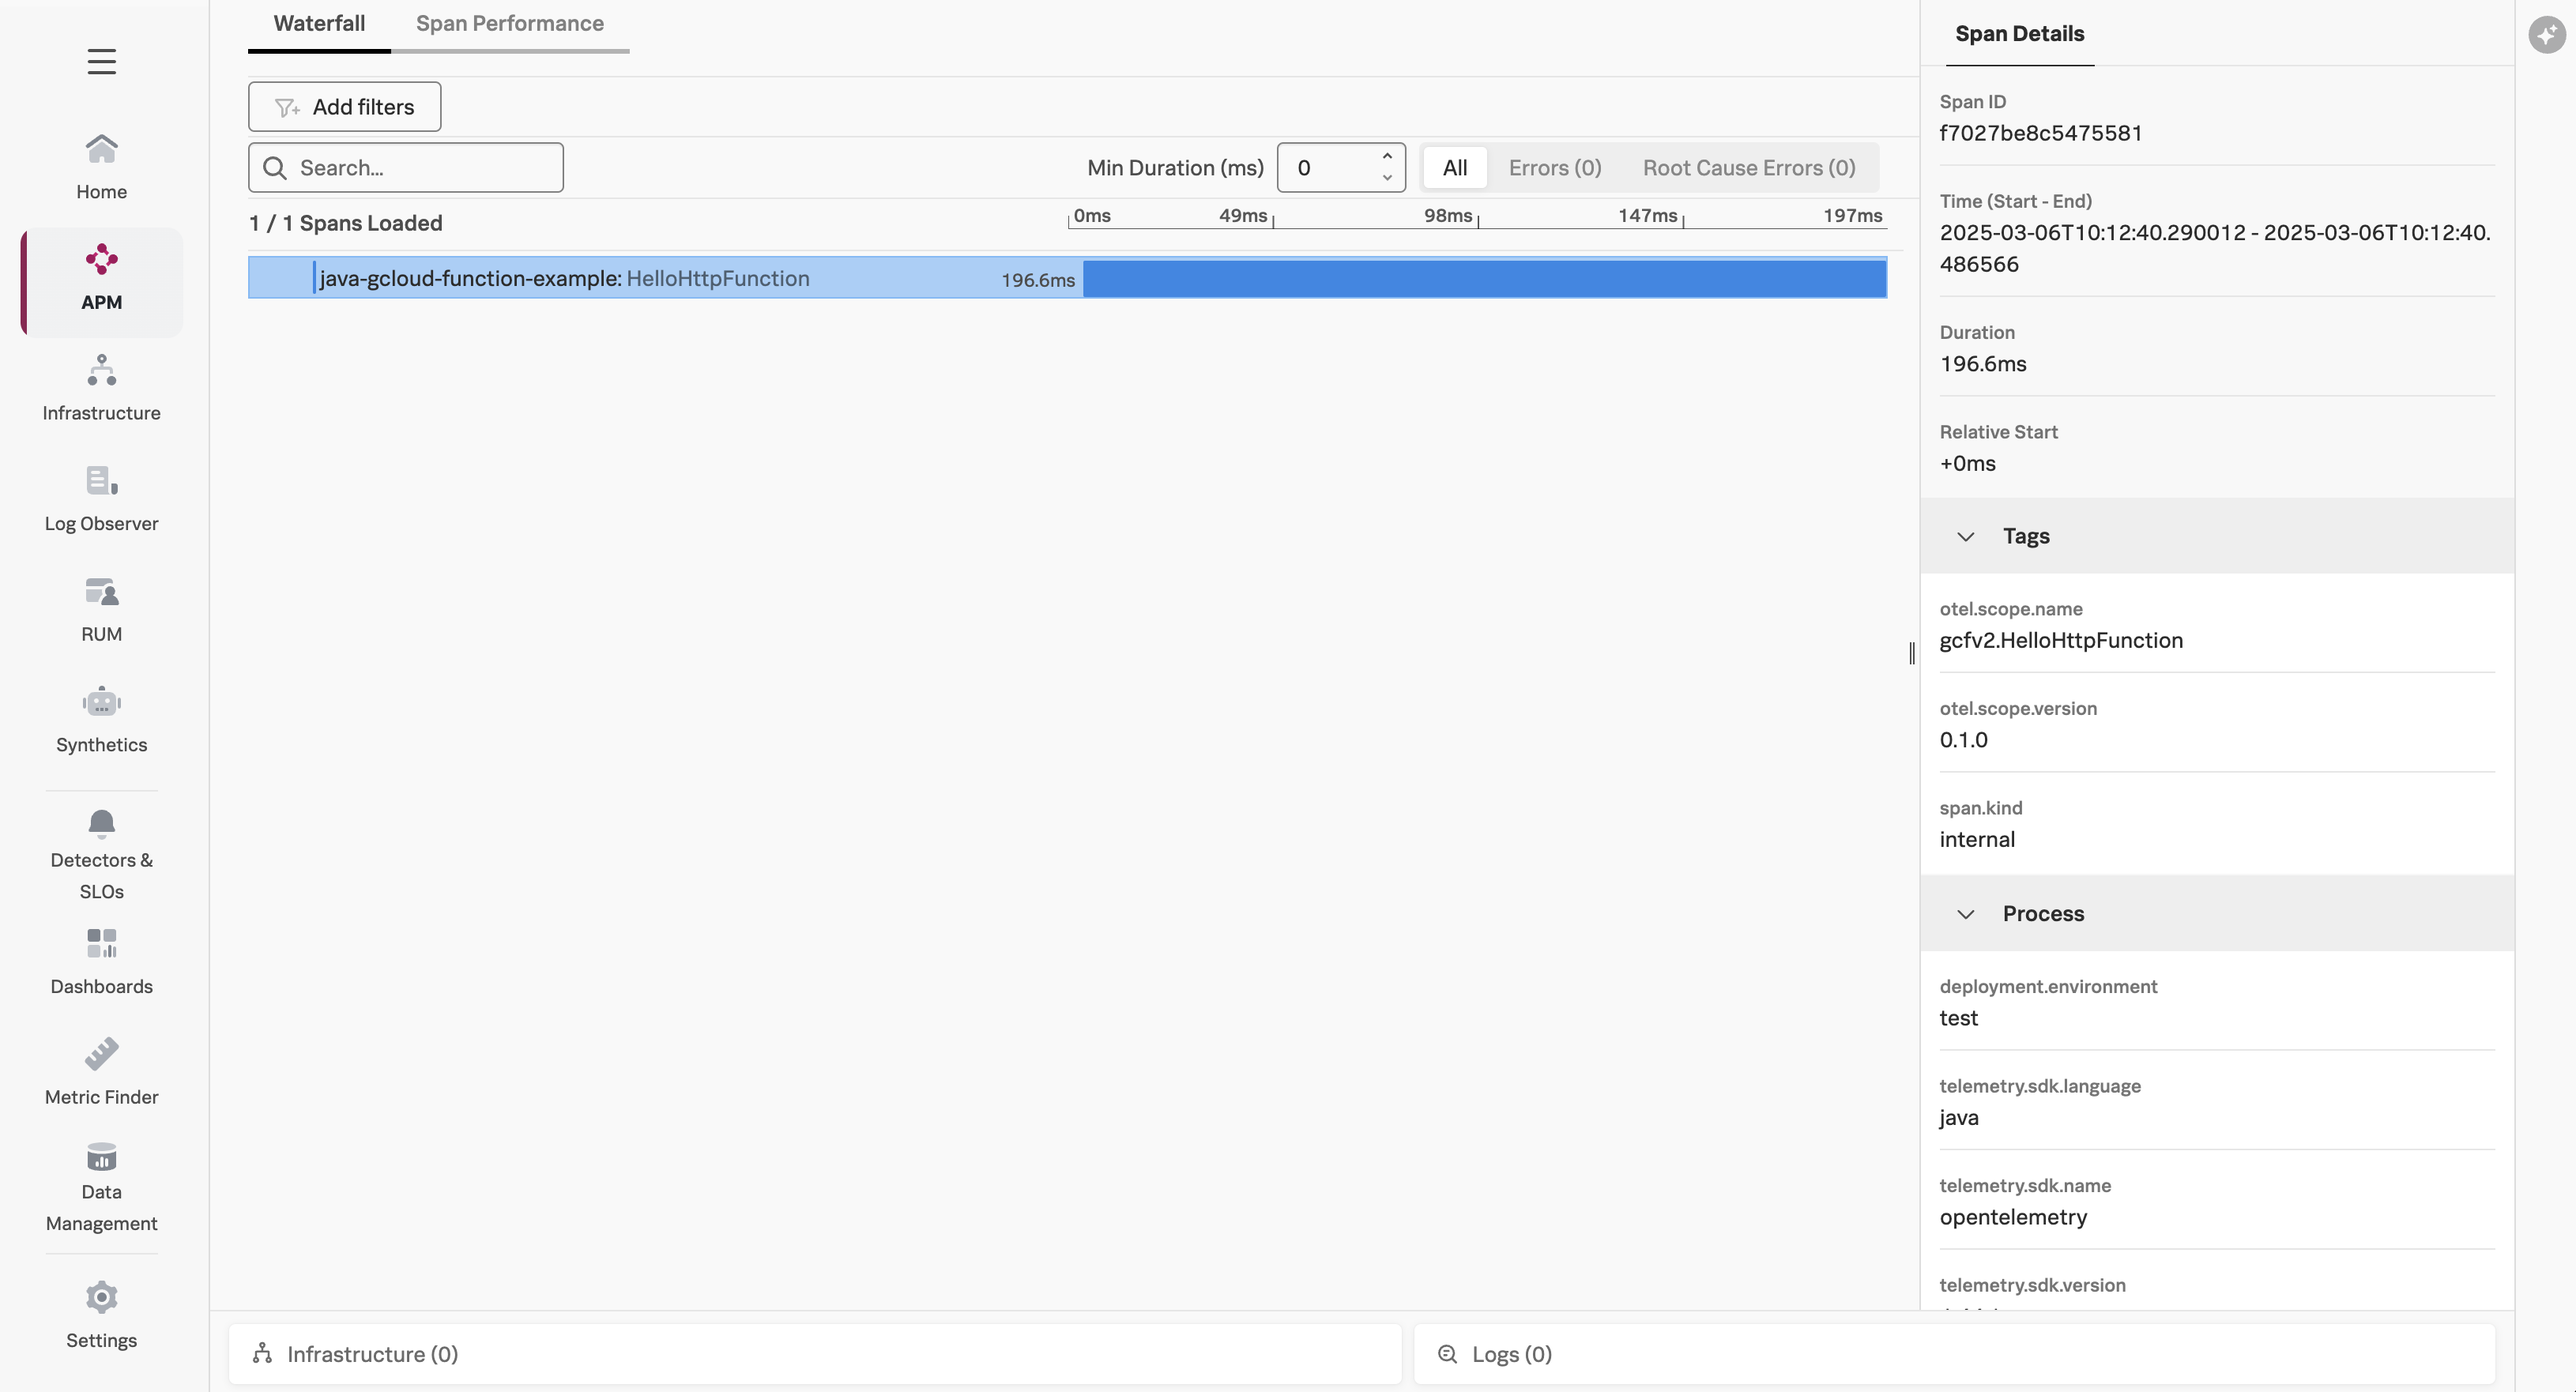
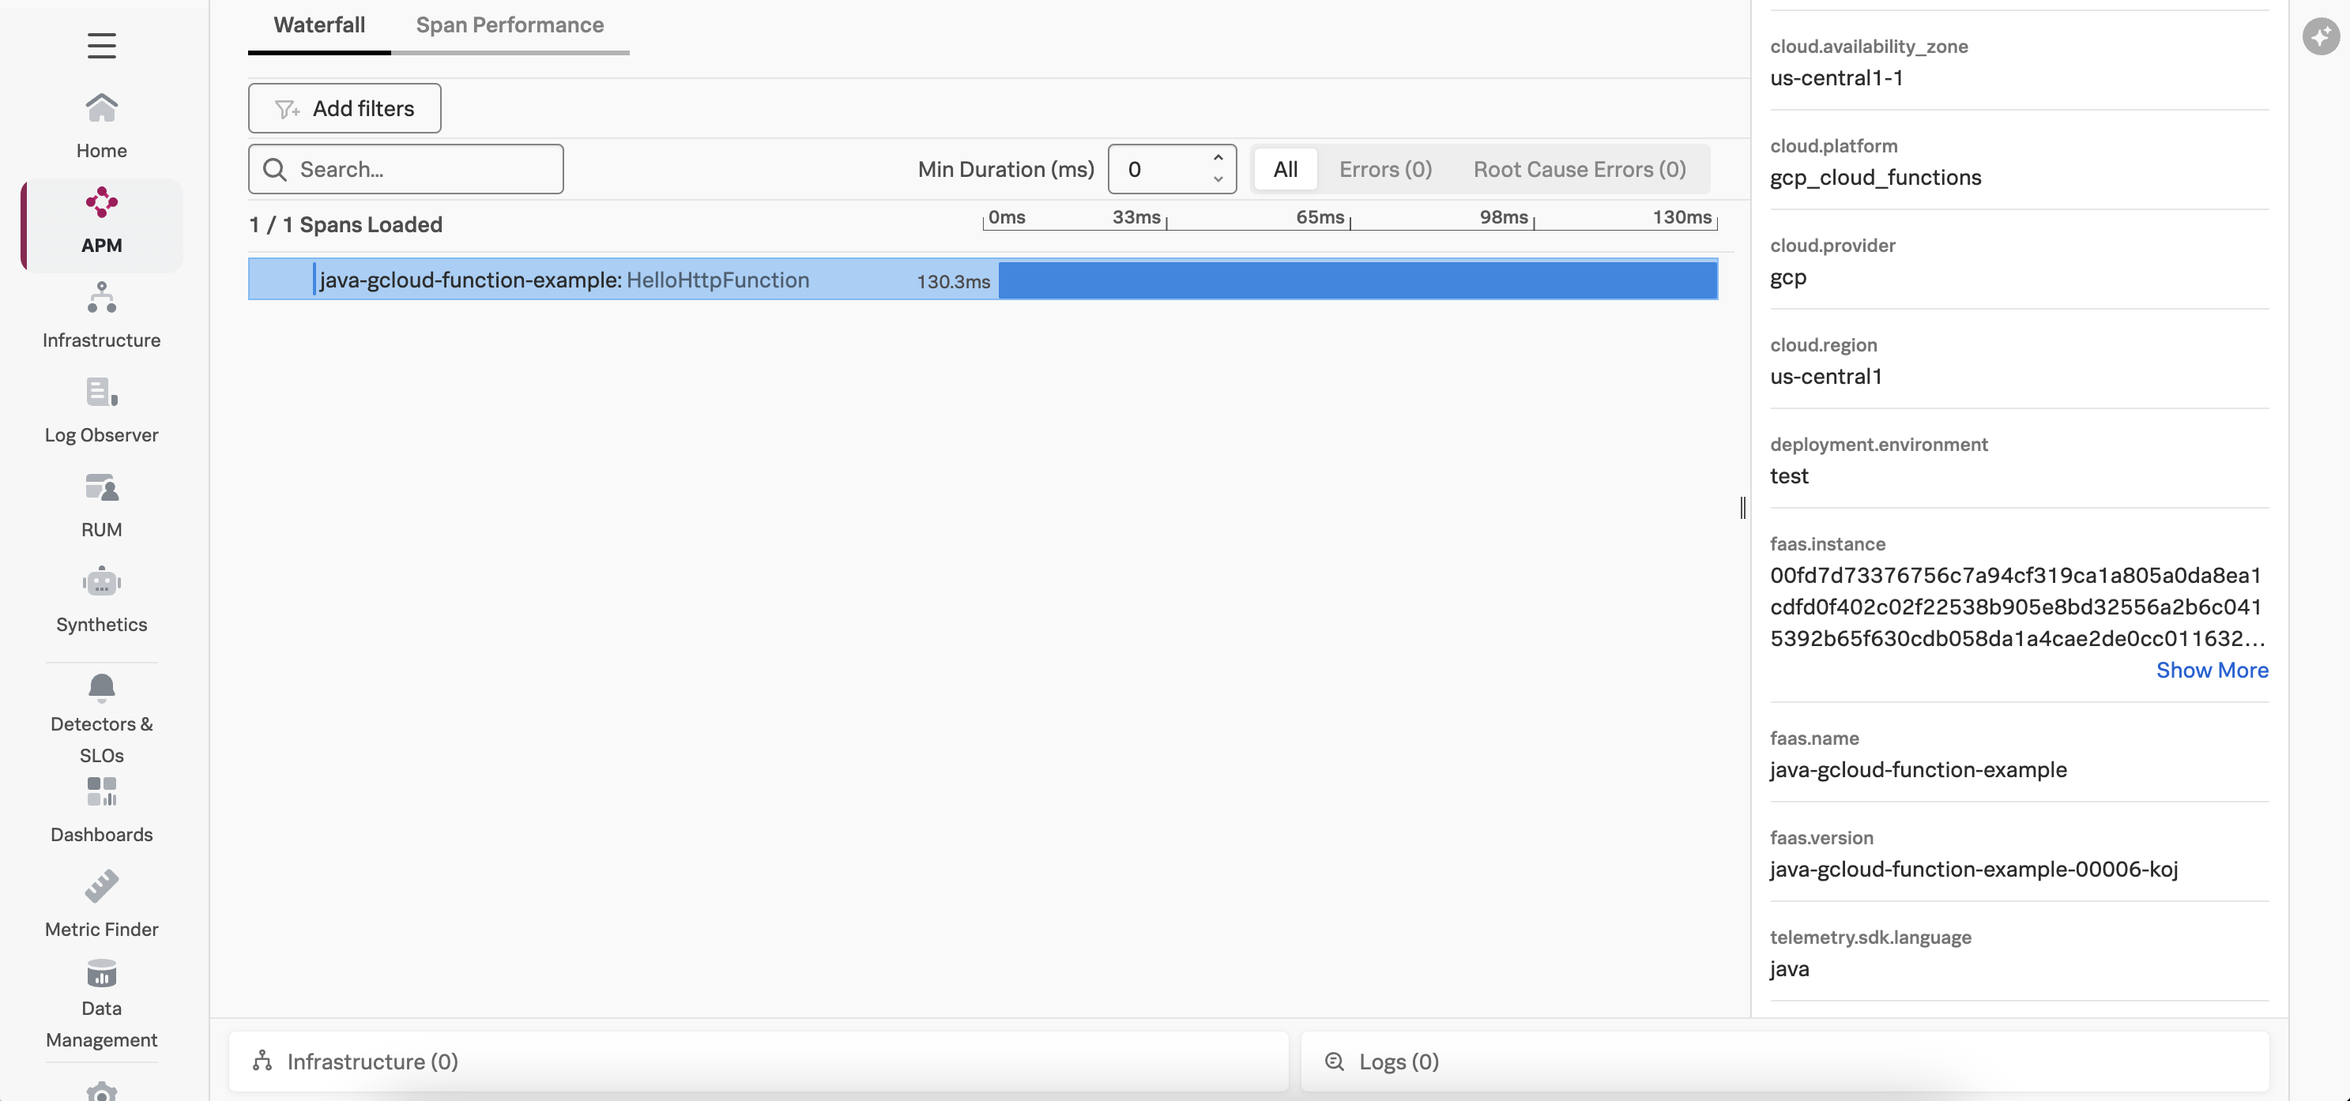
added GCP resource provider to java GCP example

diff --git a/instrumentation/java/google-cloud-functions/src/main/java/gcfv2/SplunkTelemetryConfigurator.java b/instrumentation/java/google-cloud-functions/src/main/java/gcfv2/SplunkTelemetryConfigurator.java
@@ -1,49 +1,33 @@
 package gcfv2;
 
-import io.opentelemetry.api.OpenTelemetry;
-import io.opentelemetry.api.trace.propagation.W3CTraceContextPropagator;
-import io.opentelemetry.context.propagation.ContextPropagators;
-import io.opentelemetry.exporter.otlp.http.trace.OtlpHttpSpanExporter;
+import io.opentelemetry.sdk.autoconfigure.AutoConfiguredOpenTelemetrySdk;
+import io.opentelemetry.sdk.autoconfigure.ResourceConfiguration;
 import io.opentelemetry.sdk.OpenTelemetrySdk;
 import io.opentelemetry.sdk.resources.Resource;
-import io.opentelemetry.sdk.trace.SdkTracerProvider;
-import io.opentelemetry.sdk.trace.export.BatchSpanProcessor;
-import io.opentelemetry.semconv.ResourceAttributes;
+import io.opentelemetry.contrib.gcp.resource.GCPResourceProvider;
 
 public class SplunkTelemetryConfigurator {
 
-    public static OpenTelemetry configureOpenTelemetry() {
+    public static OpenTelemetrySdk configureOpenTelemetry() {
 
         String serviceName = System.getenv("OTEL_SERVICE_NAME");
-        String deploymentEnvironment = System.getenv("DEPLOYMENT_ENVIRONMENT");
+        String otelResourceAttributes = System.getenv("OTEL_RESOURCE_ATTRIBUTES");
         String otelExporterEndpoint = System.getenv("OTEL_EXPORTER_OTLP_ENDPOINT");
 
         if (serviceName == null)
             throw new IllegalArgumentException("The OTEL_SERVICE_NAME environment variable must be populated");
-        if (deploymentEnvironment == null)
-            throw new IllegalArgumentException("The DEPLOYMENT_ENVIRONMENT environment variable must be populated");
+        if (otelResourceAttributes == null)
+            throw new IllegalArgumentException("The OTEL_RESOURCE_ATTRIBUTES environment variable must be populated");
         if (otelExporterEndpoint == null)
             throw new IllegalArgumentException("The OTEL_EXPORTER_OTLP_ENDPOINT environment variable must be populated");
 
-        Resource resource = Resource
-            .getDefault()
-            .toBuilder()
-            .put(ResourceAttributes.SERVICE_NAME, serviceName)
-            .put(ResourceAttributes.DEPLOYMENT_ENVIRONMENT, deploymentEnvironment)
-            .build();
+        OpenTelemetrySdk openTelemetrySdk =
+            AutoConfiguredOpenTelemetrySdk.initialize().getOpenTelemetrySdk();
 
-        OtlpHttpSpanExporter spanExporter = OtlpHttpSpanExporter.builder()
-            .setEndpoint(String.format("%s/v1/traces", otelExporterEndpoint))
-            .build();
+        Resource autoResource = ResourceConfiguration.createEnvironmentResource();
 
-        SdkTracerProvider sdkTracerProvider = SdkTracerProvider.builder()
-            .addSpanProcessor(BatchSpanProcessor.builder(spanExporter).build())
-            .setResource(resource)
-            .build();
+        GCPResourceProvider resourceProvider = new GCPResourceProvider();
 
-        return OpenTelemetrySdk.builder()
-            .setTracerProvider(sdkTracerProvider)
-            .setPropagators(ContextPropagators.create(W3CTraceContextPropagator.getInstance()))
-            .build();
+        return openTelemetrySdk;
     }
 }

diff --git a/instrumentation/java/google-cloud-functions/src/main/java/gcfv2/HelloHttpFunction.java b/instrumentation/java/google-cloud-functions/src/main/java/gcfv2/HelloHttpFunction.java
@@ -9,15 +9,15 @@ import com.google.cloud.functions.HttpFunction;
 import com.google.cloud.functions.HttpRequest;
 import com.google.cloud.functions.HttpResponse;
 
-import io.opentelemetry.api.OpenTelemetry;
+import io.opentelemetry.sdk.OpenTelemetrySdk;
 import io.opentelemetry.api.trace.Span;
 import io.opentelemetry.api.trace.Tracer;
 import io.opentelemetry.context.Scope;
 
 public class HelloHttpFunction implements HttpFunction {
 
-    private final OpenTelemetry openTelemetry = SplunkTelemetryConfigurator.configureOpenTelemetry();
-    private final Tracer tracer = openTelemetry.getTracer(HelloHttpFunction.class.getName(), "0.1.0");
+    private final OpenTelemetrySdk openTelemetrySdk = SplunkTelemetryConfigurator.configureOpenTelemetry();
+    private final Tracer tracer = openTelemetrySdk.getTracer(HelloHttpFunction.class.getName(), "0.1.0");
     private static final Logger logger = LogManager.getLogger(HelloHttpFunction.class);
 
     public void service(final HttpRequest request, final HttpResponse response) throws Exception {

diff --git a/instrumentation/java/google-cloud-functions/README.md b/instrumentation/java/google-cloud-functions/README.md
@@ -33,43 +33,28 @@ The application used for this example is a simple Hello World application.
 We added a helper class named [SplunkTelemetryConfiguration](./src/main/java/gcfv2/SplunkTelemetryConfigurator.java), and included code to assist with initializing the OpenTelemetry SDK:
 
 ````
-public class SplunkTelemetryConfigurator {
-
-    public static OpenTelemetry configureOpenTelemetry() {
+    public static OpenTelemetrySdk configureOpenTelemetry() {
 
         String serviceName = System.getenv("OTEL_SERVICE_NAME");
-        String deploymentEnvironment = System.getenv("DEPLOYMENT_ENVIRONMENT");
+        String otelResourceAttributes = System.getenv("OTEL_RESOURCE_ATTRIBUTES");
         String otelExporterEndpoint = System.getenv("OTEL_EXPORTER_OTLP_ENDPOINT");
 
         if (serviceName == null)
             throw new IllegalArgumentException("The OTEL_SERVICE_NAME environment variable must be populated");
-        if (deploymentEnvironment == null)
-            throw new IllegalArgumentException("The DEPLOYMENT_ENVIRONMENT environment variable must be populated");
+        if (otelResourceAttributes == null)
+            throw new IllegalArgumentException("The OTEL_RESOURCE_ATTRIBUTES environment variable must be populated");
         if (otelExporterEndpoint == null)
             throw new IllegalArgumentException("The OTEL_EXPORTER_OTLP_ENDPOINT environment variable must be populated");
 
-        Resource resource = Resource
-            .getDefault()
-            .toBuilder()
-            .put(ResourceAttributes.SERVICE_NAME, serviceName)
-            .put(ResourceAttributes.DEPLOYMENT_ENVIRONMENT, deploymentEnvironment)
-            .build();
+        OpenTelemetrySdk openTelemetrySdk =
+            AutoConfiguredOpenTelemetrySdk.initialize().getOpenTelemetrySdk();
 
-        OtlpHttpSpanExporter spanExporter = OtlpHttpSpanExporter.builder()
-            .setEndpoint(String.format("%s/v1/traces", otelExporterEndpoint))
-            .build();
+        Resource autoResource = ResourceConfiguration.createEnvironmentResource();
 
-        SdkTracerProvider sdkTracerProvider = SdkTracerProvider.builder()
-            .addSpanProcessor(BatchSpanProcessor.builder(spanExporter).build())
-            .setResource(resource)
-            .build();
+        GCPResourceProvider resourceProvider = new GCPResourceProvider();
 
-        return OpenTelemetrySdk.builder()
-            .setTracerProvider(sdkTracerProvider)
-            .setPropagators(ContextPropagators.create(W3CTraceContextPropagator.getInstance()))
-            .build();
+        return openTelemetrySdk;
     }
-}
 ````
 
 It requires the following dependencies to be added to the [pom.xml](./pom.xml) file:
@@ -113,6 +98,15 @@ It requires the following dependencies to be added to the [pom.xml](./pom.xml) f
             <version>2.8.0-alpha</version>
             <scope>runtime</scope>
         </dependency>
+        <dependency>
+            <groupId>io.opentelemetry.contrib</groupId>
+            <artifactId>opentelemetry-gcp-resources</artifactId>
+            <version>1.44.0-alpha</version>
+        </dependency>
+        <dependency>
+            <groupId>io.opentelemetry</groupId>
+            <artifactId>opentelemetry-sdk-extension-autoconfigure</artifactId>
+        </dependency>
     </dependencies>
 
 ````
@@ -139,8 +133,8 @@ OpenTelemetry using the helper class as follows:
 ````
 public class HelloHttpFunction implements HttpFunction {
 
-    private final OpenTelemetry openTelemetry = SplunkTelemetryConfigurator.configureOpenTelemetry();
-    private final Tracer tracer = openTelemetry.getTracer(HelloHttpFunction.class.getName(), "0.1.0");
+    private final OpenTelemetrySdk openTelemetrySdk = SplunkTelemetryConfigurator.configureOpenTelemetry();
+    private final Tracer tracer = openTelemetrySdk.getTracer(HelloHttpFunction.class.getName(), "0.1.0");
     private static final Logger logger = LogManager.getLogger(HelloHttpFunction.class);
 
     public void service(final HttpRequest request, final HttpResponse response) throws Exception {
@@ -191,7 +185,7 @@ gcloud functions deploy java-gcloud-function-example \
     --source=. \
     --entry-point=gcfv2.HelloHttpFunction \
     --trigger-http \
-    --set-env-vars OTEL_SERVICE_NAME=java-gcloud-function-example,OTEL_EXPORTER_OTLP_ENDPOINT=http://<collector IP address>:4318,DEPLOYMENT_ENVIRONMENT=test
+    --set-env-vars OTEL_SERVICE_NAME=java-gcloud-function-example,OTEL_EXPORTER_OTLP_ENDPOINT=http://<collector IP address>:4317,OTEL_RESOURCE_ATTRIBUTES='deployment.environment=test'
 ```
 
 Answer "y" to the following question when asked:
